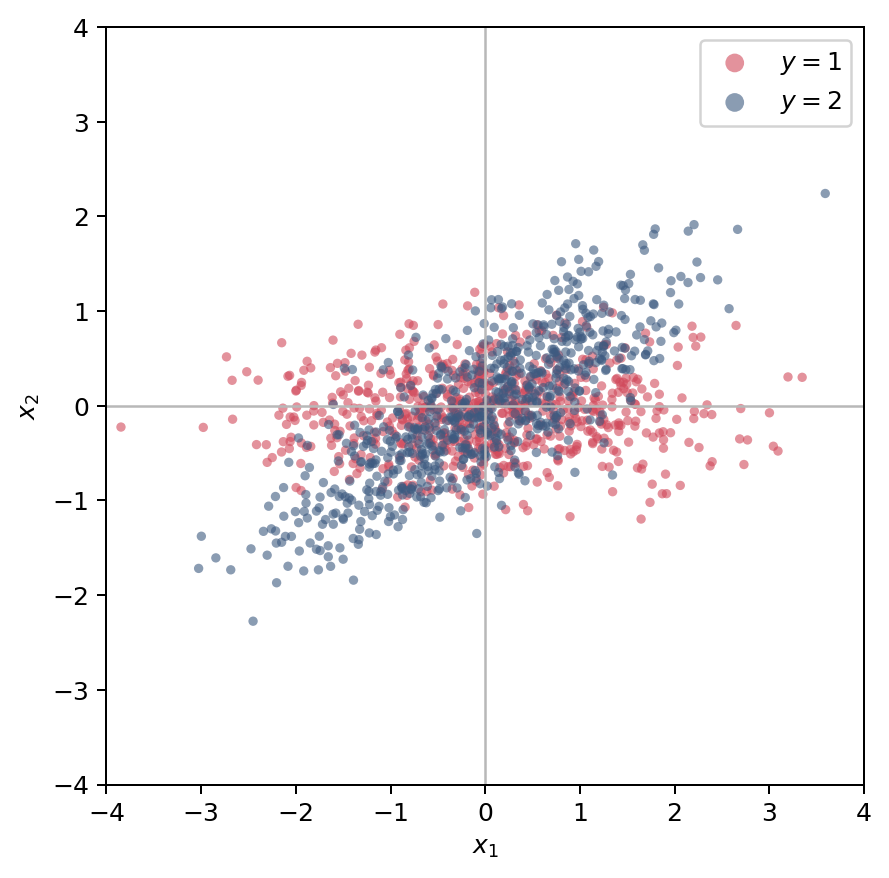
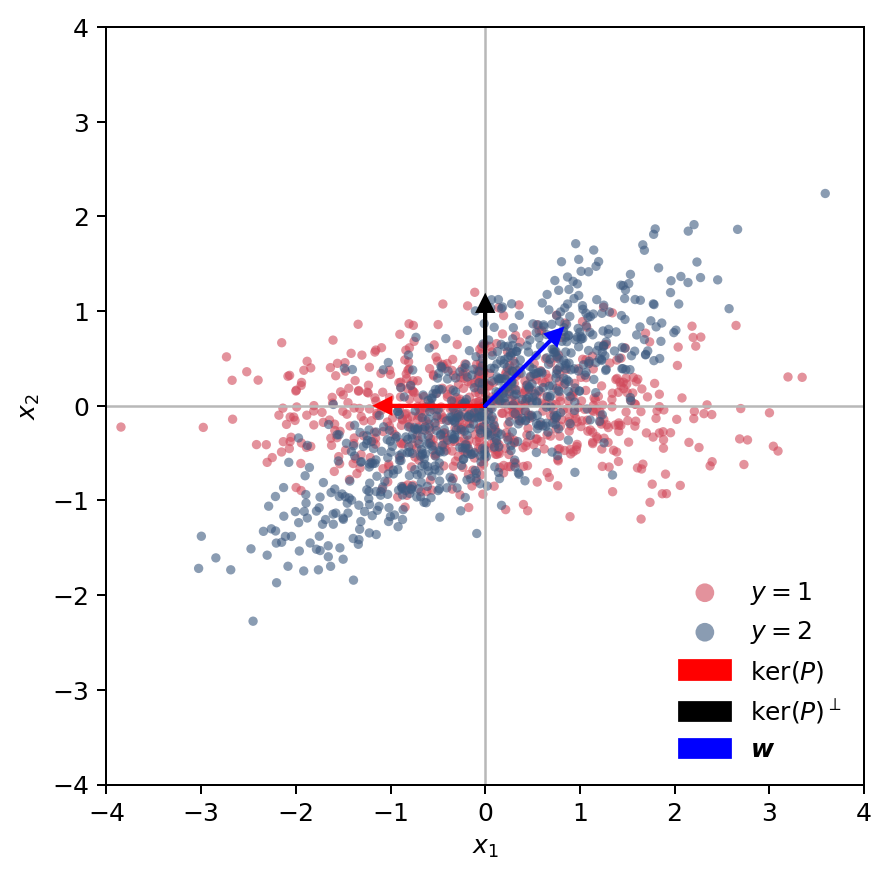
First blogpost with illustration

diff --git a/styles.css b/styles.css
@@ -343,6 +343,10 @@ p {
   grid-template-columns: repeat(2, minmax(0, 1fr));
 }
 
+.image-grid-three {
+  grid-template-columns: repeat(3, minmax(0, 1fr));
+}
+
 .image-grid .post-figure {
   margin: 0;
   max-width: none;
@@ -385,7 +389,8 @@ mjx-container {
     align-items: flex-start;
   }
 
-  .image-grid-two {
+  .image-grid-two,
+  .image-grid-three {
     grid-template-columns: 1fr;
   }
 }

diff --git a/_writing/oblique.md b/_writing/oblique.md
@@ -7,7 +7,7 @@ use_math: true
 
 In our paper [Preserving Task-Relevant Information Under Linear Concept Removal](https://arxiv.org/abs/2506.10703), we use an **oblique projection** to remove an unwanted direction from deep neural network (DNN) representations, while preserving task-relevant information. In this note, I want to clarify the difference between the oblique projection and the (more well-known) orthogonal projection. 
 
-Before diving into the math, let's start with the core intuition: <u>a projection keeps one component of a vector and discards another</u>. The discarded part is the *kernel*. The retained part is the *range*. Orthogonal and oblique projections differ only in the range.
+Before diving into the math, let's start with the core intuition: <u>a projection keeps one component of a vector and discards another</u>. The discarded part is the *kernel*. For orthogonal and oblique projections, the kernel is the same. However, they differ in their *range*, e.g. the subspace upon which the complement of the kernel is projected.
 
 Formally, let $\proj : \RR^d \to \RR^d$ be a linear map. We call $\proj$ a projection if
 
@@ -50,33 +50,38 @@ $$
 $$
 
 
-The orthogonal projection is a special case, where the basis vectors spanning the range are orthogonal to $\kernel(\proj)$, e.g.
+The orthogonal projection is a special case, where the range is the subspace orthogonal to $\kernel(\proj)$, e.g.
 
 $$
 \range(\proj) = \kernel(\proj)^\perp,
 $$
 
-and $\proj$ is an orthogonal projection. That is the whole distinction.
-* A projection is defined by its kernel and the basis vectors for its range.
-* If those basis vectors are orthogonal to the kernel, the projection is orthogonal.
-* If they are not, the projection is oblique.
+In short:
+* A projection is defined by its kernel and its range; a basis only describes that range.
+* If the range is the orthogonal complement of the kernel, the projection is orthogonal.
+* If the range is a different complement of the same kernel, the projection is oblique.
 
-The next two figures show the same idea geometrically. In both cases, the vector $\vx$ is moved parallel to the same kernel direction. What changes is the basis used to characterize the range. In the orthogonal case, that basis is orthogonal to the kernel. In the oblique case, it is a different complement of the same kernel.
+The next three figures illustrate this. The first figure shows the origina data. The next two show the corresponding orthogonal and oblique projections. For both projections, the vector $\vx$ is moved parallel to the same kernel direction. What changes is the range subspace itself. In the orthogonal case, the range is $\kernel(\proj)^\perp$. In the oblique case, the range is a different subspace.
 
+<div class="image-grid image-grid-three">
+  <figure class="post-figure">
+    <img src="{{ '/images/writing/data.png' | relative_url }}" alt="Two-dimensional Gaussian clouds, one axis-aligned and one rotated along a mixed direction." />
+    <figcaption>
+      <b>Original data</b>: Each point is a vector $\vx \in \RR^2$, and the arrows illustrate the kernel, its orthogonal complement, and a different subspace $\boldsymbol{w}$.
+    </figcaption>
+  </figure>
 
-
-<div class="image-grid image-grid-two">
   <figure class="post-figure">
     <img src="{{ '/images/writing/orthogonal-projection.png' | relative_url }}" alt="Orthogonal projection of a vector onto a range orthogonal to the kernel." />
     <figcaption>
-      Orthogonal projection: the range is $\kernel(\proj)^\perp$, so $\vx$ lands on the perpendicular complement of the kernel.
+      <b>Orthogonal projection</b>: the range is $\kernel(\proj)^\perp$, so $\vx$ lands on the perpendicular complement of the kernel.
     </figcaption>
   </figure>
 
   <figure class="post-figure">
     <img src="{{ '/images/writing/oblique-projection.png' | relative_url }}" alt="Oblique projection of a vector onto a slanted complement of the kernel." />
     <figcaption>
-      Oblique projection: $\vx$ is still projected parallel to the same kernel direction, but onto a different basis for the range.
+      <b>Oblique projection</b>: $\vx$ is still projected parallel to the same kernel direction, but onto $\boldsymbol{w}$.
     </figcaption>
   </figure>
 </div>
